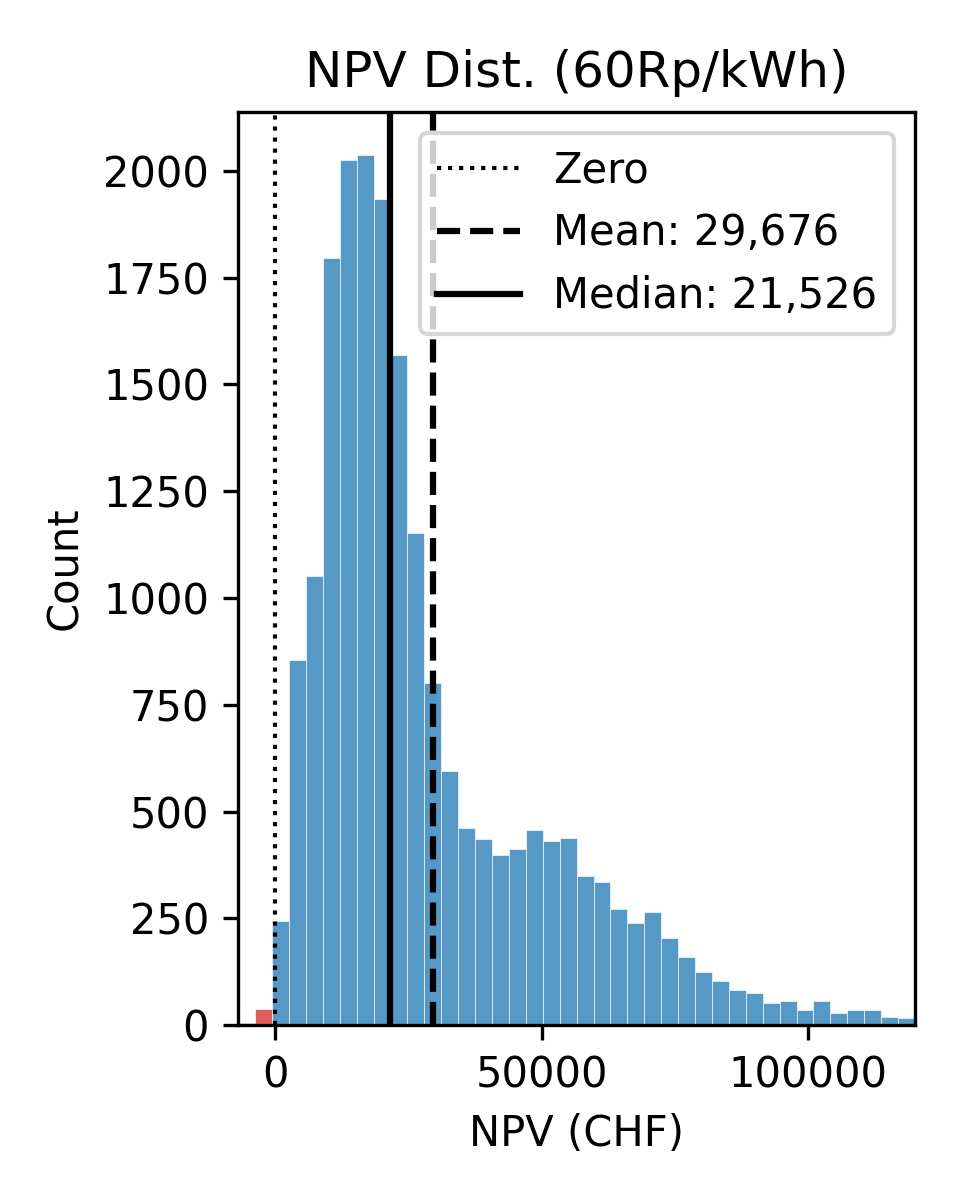
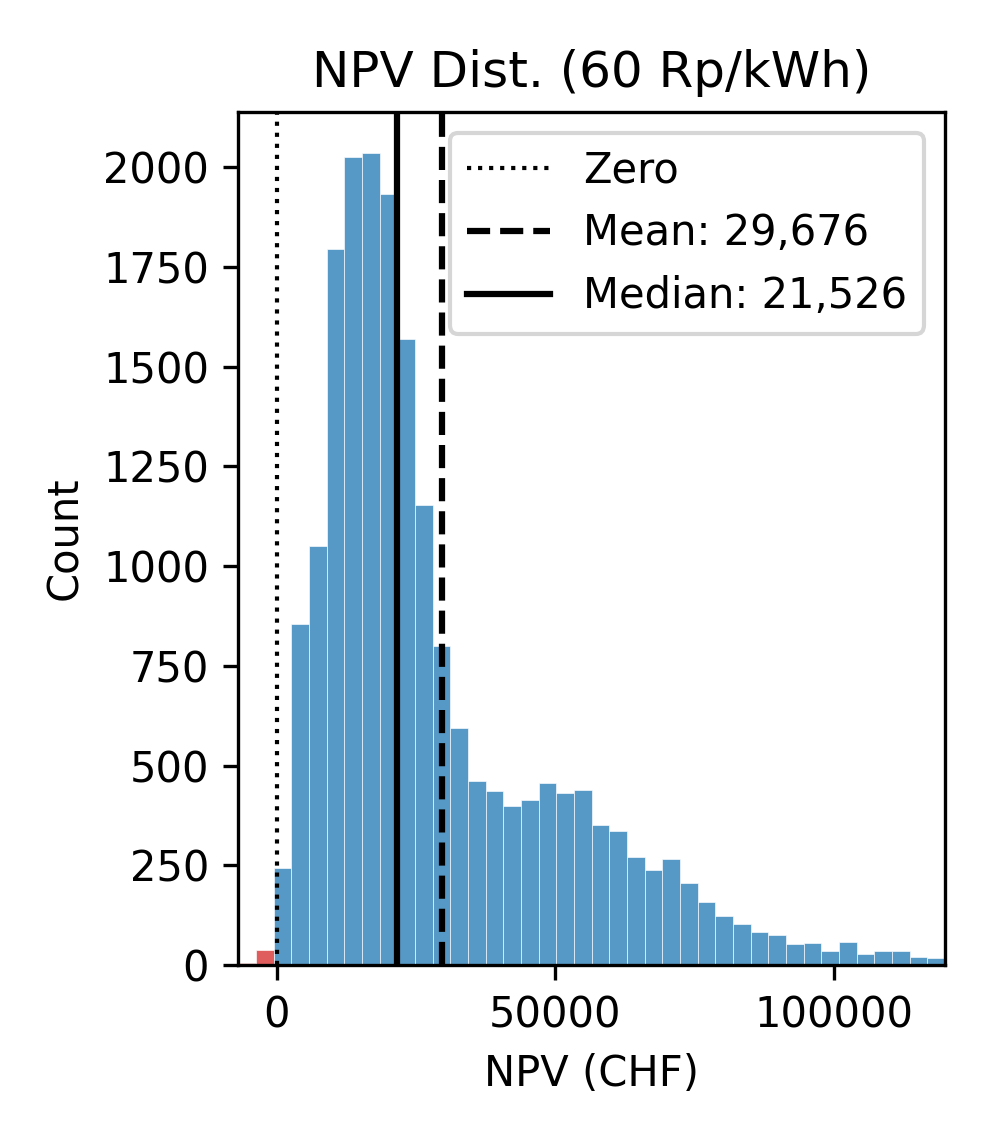
Updates from Overleaf

Changed region(s): [[0.0312, 0.0307, 0.9688, 0.9518]]

diff --git a/paper_publication/WCERE_Lisabon/main.tex b/paper_publication/WCERE_Lisabon/main.tex
@@ -331,7 +331,7 @@ Rollout 2028 at 80\%\\
 
 \vspace{0.01cm}
 \makebox[0pt][c]{%
-  \includegraphics[width=0.751\textwidth]{SSES_StGallen/figures/grid-levels.png}
+  \includegraphics[width=0.751\textwidth]{figures/grid-levels.png}
 }
 \end{frame}
 
@@ -376,14 +376,14 @@ Rollout 2028 at 80\%\\
 \begin{column}{0.49\textwidth}
   \begin{figure}
     \centering
-    \includegraphics[width=0.481\linewidth]{SSES_StGallen/figures/EGID_solkat_example.png}
+    \includegraphics[width=0.481\linewidth]{figures/EGID_solkat_example.png}
   \end{figure}
   \vspace{-0.2cm}
   \begin{figure}
     \centering
-    \only<1>{\includegraphics[width=0.91\linewidth]{SSES_StGallen/figures/plot_EGID_HOY_pvprod.png}}%
-    \only<2>{\includegraphics[width=0.91\linewidth]{SSES_StGallen/figures/plot_EGID_HOY_pvprod_demand.png}}%
-    \only<3->{\includegraphics[width=0.91\linewidth]{SSES_StGallen/figures/plot_EGID_HOY_pvprod_demand_feedin.png}}%
+    \only<1>{\includegraphics[width=0.91\linewidth]{figures/plot_EGID_HOY_pvprod.png}}%
+    \only<2>{\includegraphics[width=0.91\linewidth]{figures/plot_EGID_HOY_pvprod_demand.png}}%
+    \only<3->{\includegraphics[width=0.91\linewidth]{figures/plot_EGID_HOY_pvprod_demand_feedin.png}}%
   \end{figure}
 \end{column}
 
@@ -407,7 +407,7 @@ Rollout 2028 at 80\%\\
   \vspace{-0.2cm}
   \begin{figure}
     \centering
-    \includegraphics[width=0.84\linewidth]{SSES_StGallen/figures/NPVhist_LRG3_max.png}
+    \includegraphics[width=0.84\linewidth]{figures/NPVhist_LRG3_max.png}
   \end{figure}
 \end{column}
 
@@ -510,33 +510,33 @@ Rollout 2028 at 80\%\\
 % -------------------------------------------------------
 \begin{frame}{PV-Induced Excess Feed-in}
 \begin{minipage}{0.322\textwidth}
-  \centering\includegraphics[width=\textwidth]{SSES_StGallen/figures/gridnode_feedin_threshold_HOY.png}
+  \centering\includegraphics[width=\textwidth]{figures/gridnode_feedin_threshold_HOY.png}
 \end{minipage}\hfill
 \begin{minipage}{0.322\textwidth}
-  \centering\includegraphics[width=\textwidth]{SSES_StGallen/figures/line_PVproduction_bau_excfeedin.png}
+  \centering\includegraphics[width=\textwidth]{figures/line_PVproduction_bau_excfeedin.png}
 \end{minipage}\hfill
 \begin{minipage}{0.322\textwidth}
-  \centering\includegraphics[width=\textwidth]{SSES_StGallen/figures/line_PVproduction_bau_feedin.png}
+  \centering\includegraphics[width=\textwidth]{figures/line_PVproduction_bau_feedin.png}
 \end{minipage}
 \end{frame}
 
 % -------------------------------------------------------
 \begin{frame}{Different Subsidies}
 \begin{minipage}{0.48\textwidth}
-  \centering\includegraphics[width=\textwidth]{SSES_StGallen/figures/line_PVproduction_bauABC_excfeedin.png}
+  \centering\includegraphics[width=\textwidth]{figures/line_PVproduction_bauABC_excfeedin.png}
 \end{minipage}\hfill
 \begin{minipage}{0.48\textwidth}
-  \centering\includegraphics[width=\textwidth]{SSES_StGallen/figures/line_PVproduction_bauABC_feedin.png}
+  \centering\includegraphics[width=\textwidth]{figures/line_PVproduction_bauABC_feedin.png}
 \end{minipage}
 \end{frame}
 
 % -------------------------------------------------------
 \begin{frame}{Grid Optimal Expansion}
 \begin{minipage}{0.48\textwidth}
-  \centering\includegraphics[width=\textwidth]{SSES_StGallen/figures/line_PVproduction_gridoptim_excfeedin.png}
+  \centering\includegraphics[width=\textwidth]{figures/line_PVproduction_gridoptim_excfeedin.png}
 \end{minipage}\hfill
 \begin{minipage}{0.48\textwidth}
-  \centering\includegraphics[width=\textwidth]{SSES_StGallen/figures/line_PVproduction_gridoptim_feedin.png}
+  \centering\includegraphics[width=\textwidth]{figures/line_PVproduction_gridoptim_feedin.png}
 \end{minipage}
 \end{frame}
 
@@ -621,10 +621,10 @@ Rollout 2028 at 80\%\\
 \begin{frame}{Appendix: NPV Sensitivity --- Electricity Prices}
 \hypertarget{appendix_npv_hist_sensitivity}{}
 \begin{minipage}{0.48\textwidth}
-  \centering\includegraphics[width=\textwidth]{SSES_StGallen/figures/pvalloc_LRG3_max_elecpri15RP_npv_df_hist.png}
+  \centering\includegraphics[width=\textwidth]{figures/pvalloc_LRG3_max_elecpri15RP_npv_df_hist.png}
 \end{minipage}\hfill
 \begin{minipage}{0.48\textwidth}
-  \centering\includegraphics[width=\textwidth]{SSES_StGallen/figures/pvalloc_LRG3_max_elecpri60RP_npv_df_hist.png}
+  \centering\includegraphics[width=\textwidth]{figures/pvalloc_LRG3_max_elecpri60RP_npv_df_hist.png}
 \end{minipage}
 \centering
 \hyperlink{mod_allocation_process}{\beamerreturnbutton{back}}
@@ -633,13 +633,13 @@ Rollout 2028 at 80\%\\
 % -------------------------------------------------------
 \begin{frame}{Appendix: High Spatial Resolution at Large Scale}
 \begin{minipage}{0.323\textwidth}
-  \centering\includegraphics[width=\textwidth]{SSES_StGallen/figures/wp_topo_roof_solkat_1_3.png}
+  \centering\includegraphics[width=\textwidth]{figures/wp_topo_roof_solkat_1_3.png}
 \end{minipage}\hfill
 \begin{minipage}{0.323\textwidth}
-  \centering\includegraphics[width=\textwidth]{SSES_StGallen/figures/wp_topo_DSO_example_1_3.png}
+  \centering\includegraphics[width=\textwidth]{figures/wp_topo_DSO_example_1_3.png}
 \end{minipage}\hfill
 \begin{minipage}{0.323\textwidth}
-  \centering\includegraphics[width=\textwidth]{SSES_StGallen/figures/wp_topo_DSO_grid_large_example_1_3.png}
+  \centering\includegraphics[width=\textwidth]{figures/wp_topo_DSO_grid_large_example_1_3.png}
 \end{minipage}
 \end{frame}
 
@@ -651,17 +651,17 @@ Rollout 2028 at 80\%\\
   \includegraphics[width=1.0\textwidth]{paper_publication/SSES_StGallen/hist_contcharact_newinst_bu_pvalloc_LRG3_max.png}
   \vspace{-0.311cm}
   \begin{minipage}{0.49\textwidth}
-    \centering\makebox[0pt][c]{\includegraphics[width=1.05\textwidth]{SSES_StGallen/figures/line_catgcharact_newinst_bu_pvalloc_LRG3_max_GKLAS.png}}
+    \centering\makebox[0pt][c]{\includegraphics[width=1.05\textwidth]{figures/line_catgcharact_newinst_bu_pvalloc_LRG3_max_GKLAS.png}}
   \end{minipage}\hfill
   \begin{minipage}{0.49\textwidth}
-    \centering\makebox[0pt][c]{\includegraphics[width=1.05\textwidth]{SSES_StGallen/figures/line_catgcharact_newinst_bu_pvalloc_LRG3_max_heatpump_TF.png}}
+    \centering\makebox[0pt][c]{\includegraphics[width=1.05\textwidth]{figures/line_catgcharact_newinst_bu_pvalloc_LRG3_max_heatpump_TF.png}}
   \end{minipage}
   \vspace{-0.311cm}
   \begin{minipage}{0.49\textwidth}
-    \centering\makebox[0pt][c]{\includegraphics[width=1.05\textwidth]{SSES_StGallen/figures/line_catgcharact_newinst_bu_pvalloc_LRG3_max_are_typ.png}}
+    \centering\makebox[0pt][c]{\includegraphics[width=1.05\textwidth]{figures/line_catgcharact_newinst_bu_pvalloc_LRG3_max_are_typ.png}}
   \end{minipage}\hfill
   \begin{minipage}{0.49\textwidth}
-    \centering\makebox[0pt][c]{\includegraphics[width=1.05\textwidth]{SSES_StGallen/figures/line_catgcharact_newinst_bu_pvalloc_LRG3_max_filter_tag.png}}
+    \centering\makebox[0pt][c]{\includegraphics[width=1.05\textwidth]{figures/line_catgcharact_newinst_bu_pvalloc_LRG3_max_filter_tag.png}}
   \end{minipage}
 \end{minipage}
 \begin{minipage}{0.479\textwidth}
@@ -670,17 +670,17 @@ Rollout 2028 at 80\%\\
   \includegraphics[width=1.0\textwidth]{paper_publication/SSES_StGallen/hist_contcharact_newinst_bu_pvalloc_LRG3_max.png}
   \vspace{-0.311cm}
   \begin{minipage}{0.49\textwidth}
-    \centering\makebox[0pt][c]{\includegraphics[width=1.05\textwidth]{SSES_StGallen/figures/line_catgcharact_newinst_bu_pvalloc_LRG3_max_sBs0p8_GKLAS.png}}
+    \centering\makebox[0pt][c]{\includegraphics[width=1.05\textwidth]{figures/line_catgcharact_newinst_bu_pvalloc_LRG3_max_sBs0p8_GKLAS.png}}
   \end{minipage}\hfill
   \begin{minipage}{0.49\textwidth}
-    \centering\makebox[0pt][c]{\includegraphics[width=1.05\textwidth]{SSES_StGallen/figures/line_catgcharact_newinst_bu_pvalloc_LRG3_max_sBs0p8_heatpump_TF.png}}
+    \centering\makebox[0pt][c]{\includegraphics[width=1.05\textwidth]{figures/line_catgcharact_newinst_bu_pvalloc_LRG3_max_sBs0p8_heatpump_TF.png}}
   \end{minipage}
   \vspace{-0.311cm}
   \begin{minipage}{0.49\textwidth}
-    \centering\makebox[0pt][c]{\includegraphics[width=1.05\textwidth]{SSES_StGallen/figures/line_catgcharact_newinst_bu_pvalloc_LRG3_max_sBs0p8_are_typ.png}}
+    \centering\makebox[0pt][c]{\includegraphics[width=1.05\textwidth]{figures/line_catgcharact_newinst_bu_pvalloc_LRG3_max_sBs0p8_are_typ.png}}
   \end{minipage}\hfill
   \begin{minipage}{0.49\textwidth}
-    \centering\makebox[0pt][c]{\includegraphics[width=1.05\textwidth]{SSES_StGallen/figures/line_catgcharact_newinst_bu_pvalloc_LRG3_max_sBs0p8_filter_tag.png}}
+    \centering\makebox[0pt][c]{\includegraphics[width=1.05\textwidth]{figures/line_catgcharact_newinst_bu_pvalloc_LRG3_max_sBs0p8_filter_tag.png}}
   \end{minipage}
 \end{minipage}
 \end{frame}
@@ -691,7 +691,7 @@ Rollout 2028 at 80\%\\
 \vspace{-\baselineskip}
 \begin{figure}
   \centering
-  \includegraphics[width=0.8\textwidth]{SSES_StGallen/figures/bfe_ep2050_netz_MNA_notitle.PNG}
+  \includegraphics[width=0.8\textwidth]{figures/bfe_ep2050_netz_MNA_notitle.PNG}
 \end{figure}
 \vspace{-\baselineskip}
 \small\centering
@@ -705,7 +705,7 @@ Rollout 2028 at 80\%\\
 \vspace{-\baselineskip}
 \begin{figure}
   \centering
-  \includegraphics[width=0.56\textwidth]{SSES_StGallen/figures/calib_rfr2_predvsactual.png}
+  \includegraphics[width=0.56\textwidth]{figures/calib_rfr2_predvsactual.png}
 \end{figure}
 \vspace{-\baselineskip}
 \small\centering
@@ -719,7 +719,7 @@ Rollout 2028 at 80\%\\
 \vspace{-\baselineskip}
 \begin{figure}
   \centering
-  \includegraphics[width=0.56\textwidth]{SSES_StGallen/figures/pvinstcost_table.png}
+  \includegraphics[width=0.56\textwidth]{figures/pvinstcost_table.png}
 \end{figure}
 \vspace{-\baselineskip}
 \small\centering
@@ -733,7 +733,7 @@ Rollout 2028 at 80\%\\
 \vspace{-\baselineskip}
 \begin{figure}
   \centering
-  \includegraphics[width=0.56\textwidth]{SSES_StGallen/figures/eth_summerschool_scenario_agg_notitle.png}
+  \includegraphics[width=0.56\textwidth]{figures/eth_summerschool_scenario_agg_notitle.png}
 \end{figure}
 \vspace{-\baselineskip}
 \hyperlink{motivation_relevance}{\beamerreturnbutton{back}}

diff --git a/paper_publication/Update_Primeo_June26/main.tex b/paper_publication/Update_Primeo_June26/main.tex
@@ -169,7 +169,7 @@
 
     \item \textbf{Unrealistische Ausbaukapazität}  \hyperlink{adjusted_res_capacity}{\beamergotobutton{ Angepasste Ausbaukazapität}}
     \begin{itemize}
-        \item Bisher: Zukünftiger PV Ausbaupfad gemäss Energieperspektive (EP) 2050+ als unrealistische Annahme. 
+        \item Bisher: Zukünftiger PV Ausbaupfad gemäss Energieperspektive 2050+ (EP2050+) als unrealistische Annahme. 
         \item \textit{
             Neu: Startwert basiert auf historischem Wert (2023), anschliessend asymptotische Annäherung an die Zielkapazität EP2050+ bis 2050. 
             }
@@ -330,7 +330,7 @@ Linke Grafik zeigt den angepassten, zukünftigen Ausbaupfad (neu mit Startwert a
 
 \vspace{0.1cm}
 {\footnotesize
-Grafiken zeigen Histogramm der NPVs aller zukünftigen Installationen bei Strompreis von 31.9,  15 und 60 Rp/kWh. Verschobenen Masse betrifft haupts. Anlagen mit hohem Eingenverbrauch welche (netzdienlicher) zuerst installiert werden. 
+Grafiken zeigen Histogramm der NPVs aller zukünftigen Installationen bei Strompreis von 31.9,  15 und 60 Rp/kWh. Verschobenen Masse betrifft hauptsächlich Anlagen mit hohem Eingenverbrauch welche (netzdienlicher) zuerst installiert werden. 
 }
 \end{frame}
 
@@ -664,10 +664,10 @@ Grafiken zeigen Histogramm der NPVs aller zukünftigen Installationen bei Stromp
 
 
 %%%%%%%%%%%%%%%%%%%%%%%%%%%%%%%%%%%%%%%%%%%%%%%
-% \section*{Bibliography}
-% \renewcommand{\bibfont}{\footnotesize}
-% \begin{frame}[allowframebreaks]{References}
-%   \printbibliography
-% \end{frame}
+\section*{Bibliography}
+\renewcommand{\bibfont}{\footnotesize}
+\begin{frame}[allowframebreaks]{References}
+  \printbibliography
+\end{frame}
 
 \end{document}
